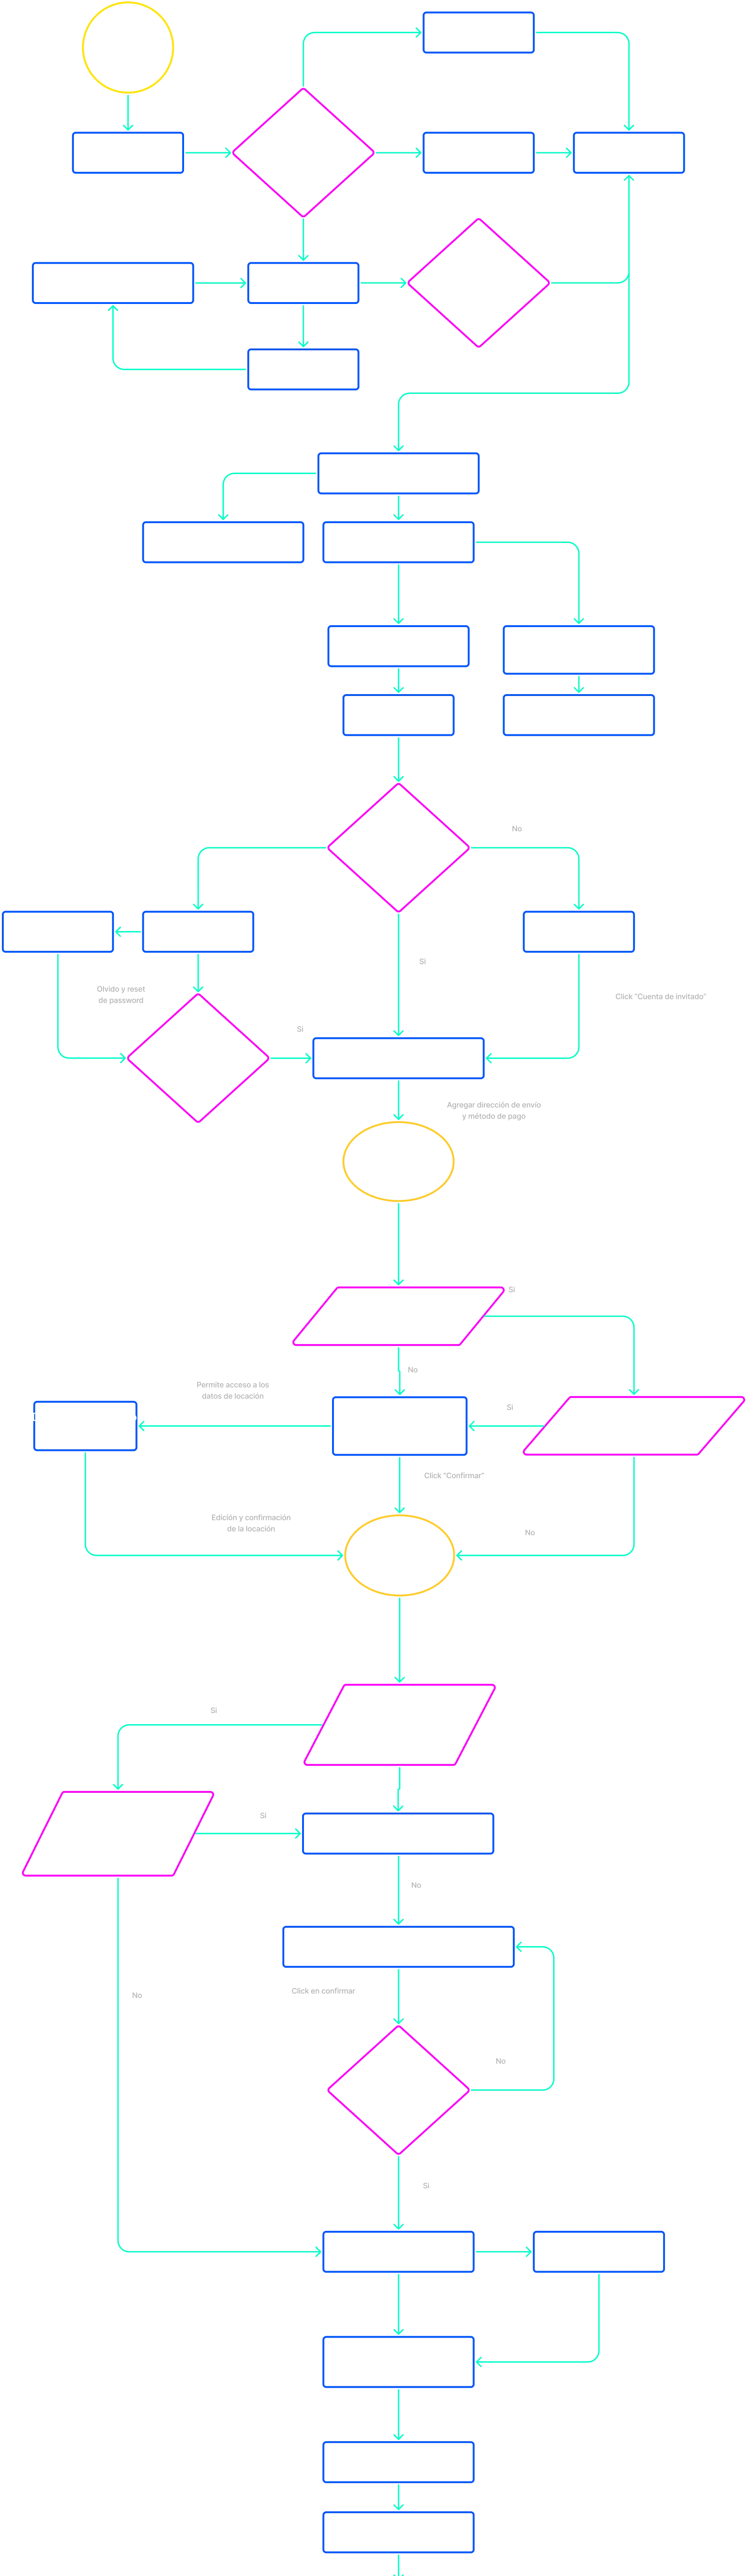
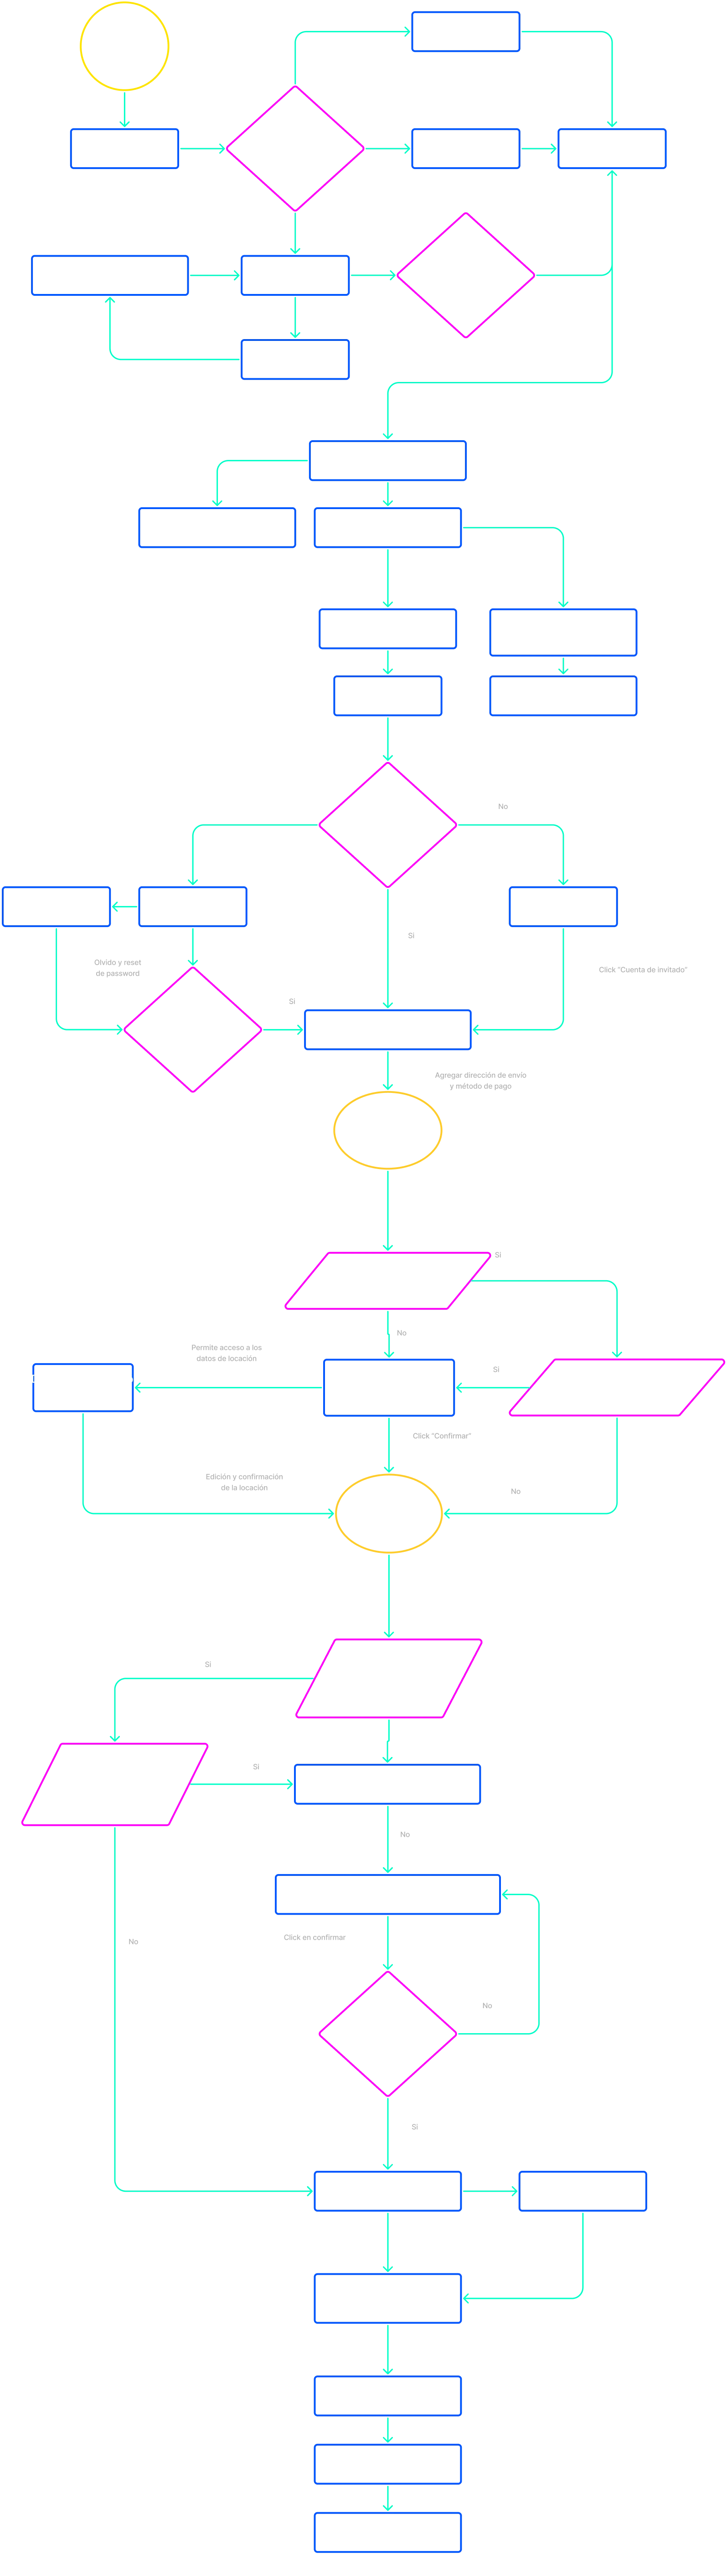
ajustes mall

diff --git a/src/app/trabajos/[id]/page.jsx b/src/app/trabajos/[id]/page.jsx
@@ -41,16 +41,28 @@ export default async function ProjectPage({ params }) {
             <p className={styles.description}>{project.description}</p><br></br>
             <p className={styles.copy}>{project.copy}</p><br></br>
             <p className={styles.copy2}>{project.copy2}</p><br></br>
-            {['detailImage', 'detailImage2', 'detailImage3', 'detailImage4']
-              .map((key) => project[key])
-              .filter(Boolean)
-              .map((src, idx) => (
-                <div key={idx} className={styles.detailImageWrapper}>
-                  <img
-                    src={src}
-                    alt={project.alt || project.title}
-                    className={styles.detailImage}
-                  />
+            {[
+              { img: project.detailImage, title: project.subTitle },
+              { img: project.detailImage2, title: project.subTitle2 },
+              { img: project.detailImage3, title: project.subTitle3 },
+              { img: project.detailImage4, title: project.subTitle4 },
+              { img: project.detailImage5, title: project.subTitle5 },
+              { img: project.detailImage6, title: project.subTitle6 },
+              { img: project.detailImage7, title: project.subTitle7 },
+              { img: project.detailImage8, title: project.subTitle8 },
+              { img: project.detailImage9, title: project.subTitle9 },
+            ]
+              .filter((item) => item.img)
+              .map((item, idx) => (
+                <div key={idx} className={styles.detailBlock}>
+                  {item.title && <h3 className={styles.detailTitle}>{item.title}</h3>}
+                  <div className={styles.detailImageWrapper}>
+                    <img
+                      src={item.img}
+                      alt={item.title || project.alt || project.title}
+                      className={styles.detailImage}
+                    />
+                  </div>
                 </div>
               ))}
 

diff --git a/src/app/trabajos/[id]/ProjectPage.module.css b/src/app/trabajos/[id]/ProjectPage.module.css
@@ -130,8 +130,23 @@
   color: var(--color-text-primary);
 }
 
+.detailBlock {
+  margin-top: var(--space-12);
+}
+
+.detailBlock:first-of-type {
+  margin-top: var(--space-8);
+}
+
+.detailTitle {
+  font-size: var(--text-xl);
+  font-weight: 500;
+  margin-bottom: var(--space-4);
+  color: var(--color-text-primary);
+  letter-spacing: var(--tracking-tight);
+}
+
 .detailImageWrapper {
-  margin-top: var(--space-10);
   width: 100%;
   border-radius: 12px;
   overflow: hidden;

diff --git a/src/data/projects.js b/src/data/projects.js
@@ -49,10 +49,24 @@ export const projects = [
     `,
     copy: `Objetivo: Ser el e-commerce de indumentaria multimarca de referencia con fuerte influencia de los usuarios en compartir contenido relacionado a lo que venden y compran.`,
     copy2: `Target: Apasionados de la moda de todas las edades que disfrutan coleccionando y usando prendas, sin importar su ubicación.`,
+    subTitle: 'Usuario',
     detailImage: '/images/user_mall.webp',
+    subTitle2: 'Card sorting',
     detailImage2: '/images/card_sorting_mall.webp',
+    subTitle3: 'Mapa de sitio',
     detailImage3: '/images/sitemap_mall.webp',
+    subTitle4: 'Flujo de usuario',
     detailImage4: '/images/user_flow.webp',
+    subTitle5: 'Prototipo',
+    detailImage5: '/images/prototype_mall.webp',
+    subTitle6: 'Diseño visual',
+    detailImage6: '/images/visual_design_mall.webp',
+    subTitle7: 'Tipografía',
+    detailImage7: '/images/typography_mall.webp',
+    subTitle8: 'Paleta de colores',
+    detailImage8: '/images/color_palette_mall.webp',
+    subTitle9: 'Diseño de interfaz',
+    detailImage9: '/images/interface_mall.webp',
     client: 'Mall',
     year: '2024',
     services: ['Diseño de Identidad', 'Motion Graphics']